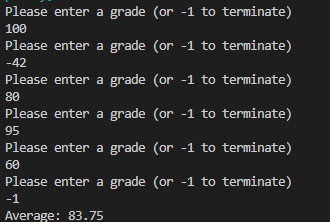
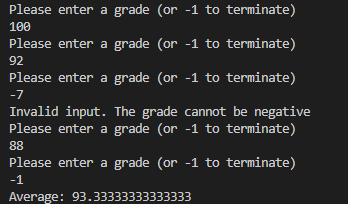
Commit

Changed region(s): [[0.0, 0.2647, 0.9091, 1.0], [0.0, 0.0, 0.8788, 0.2647], [0.5455, 0.3235, 0.8788, 0.4118]]

diff --git a/Lab06/Sentinel.java b/Lab06/Sentinel.java
@@ -34,6 +34,9 @@ public class Sentinel{
                 sum += x;
                 count += 1;
             }
+            else{
+                System.out.println("Invalid input. The grade cannot be negative.");
+            }
         }
         scan.close();
 
